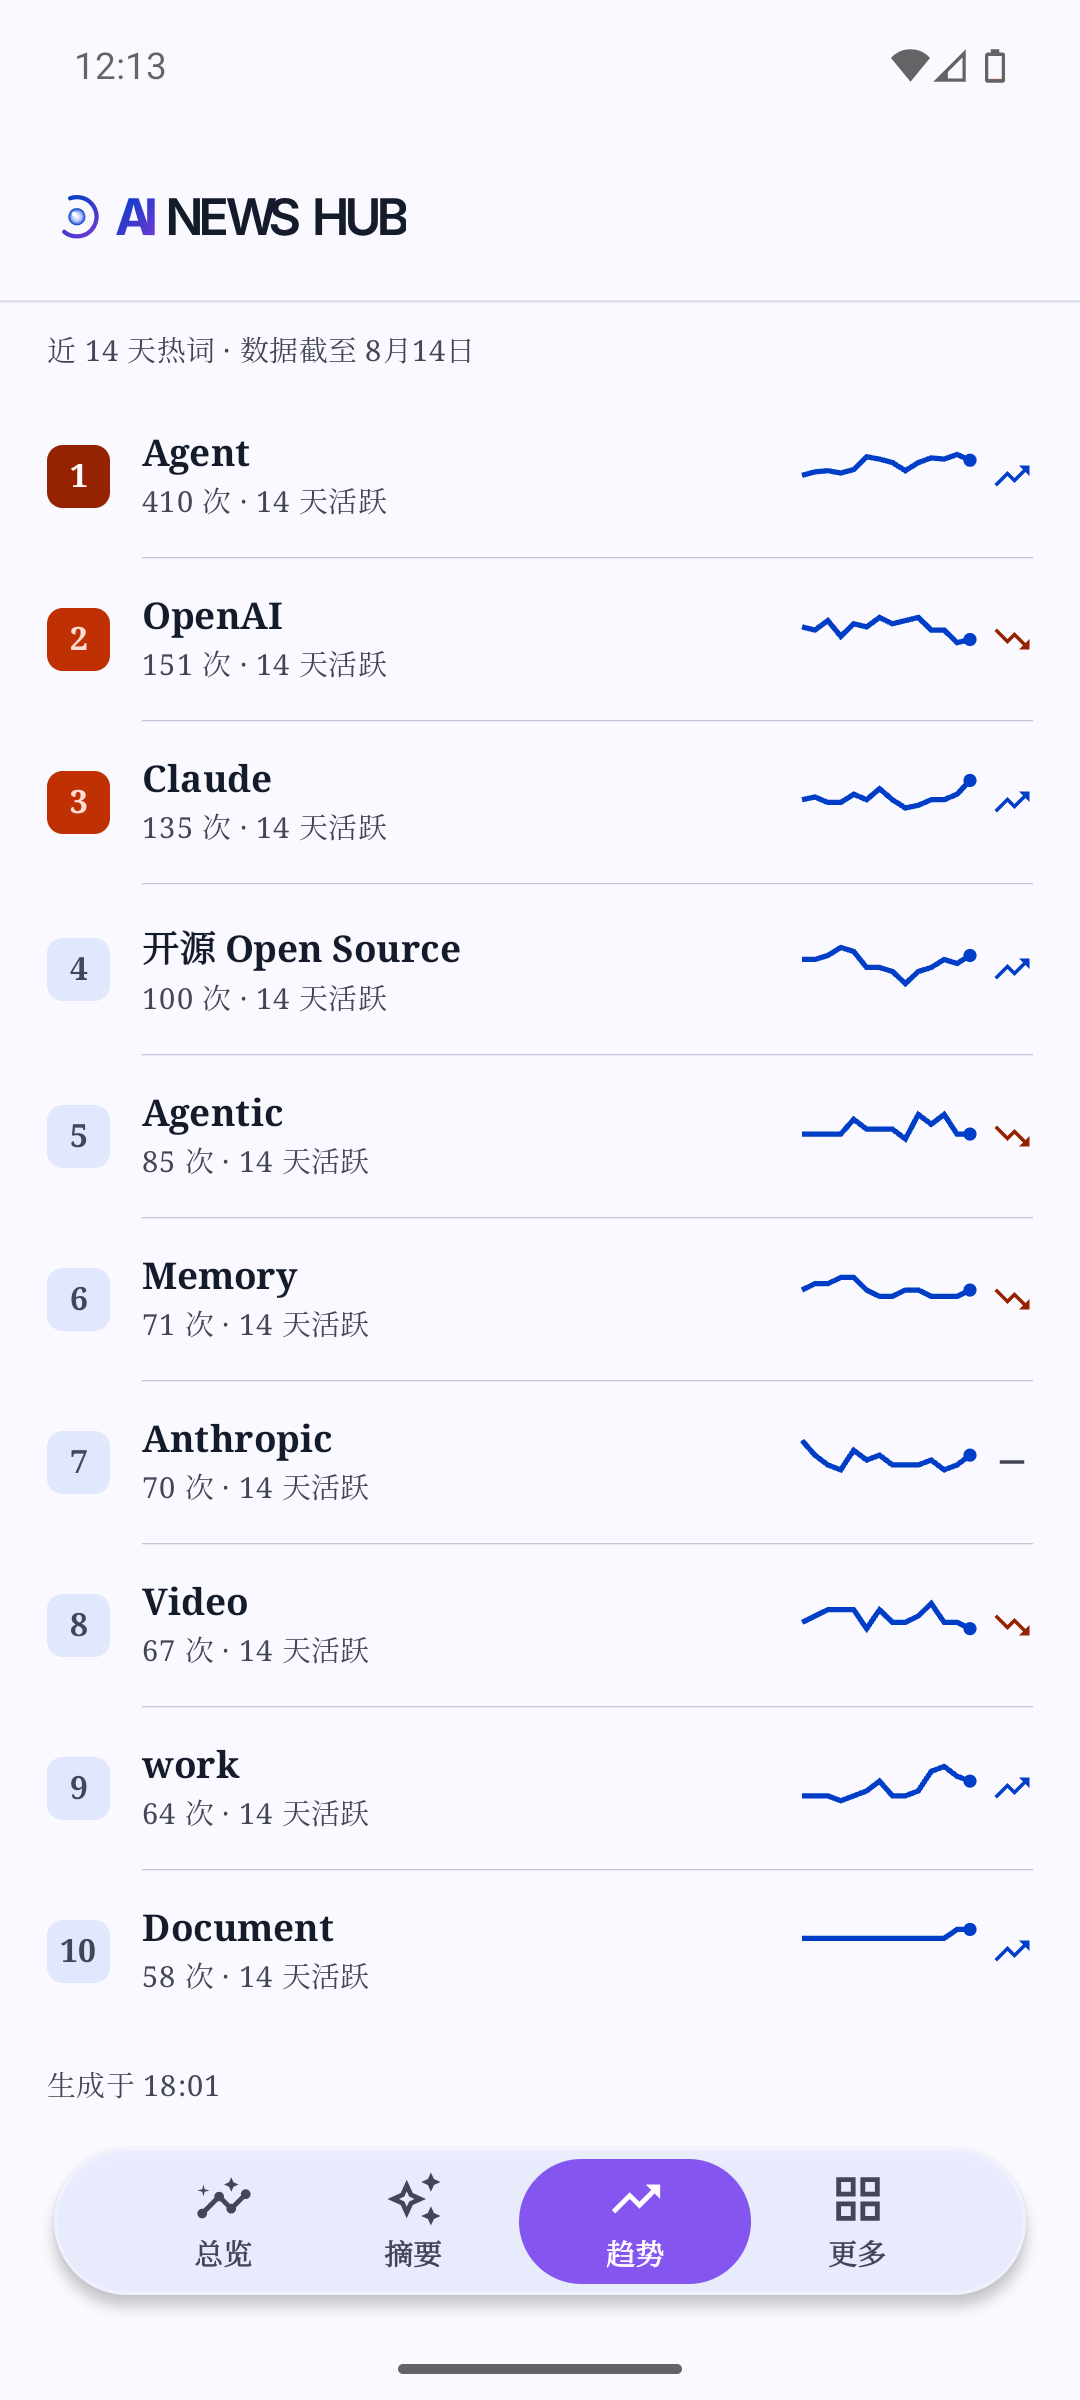
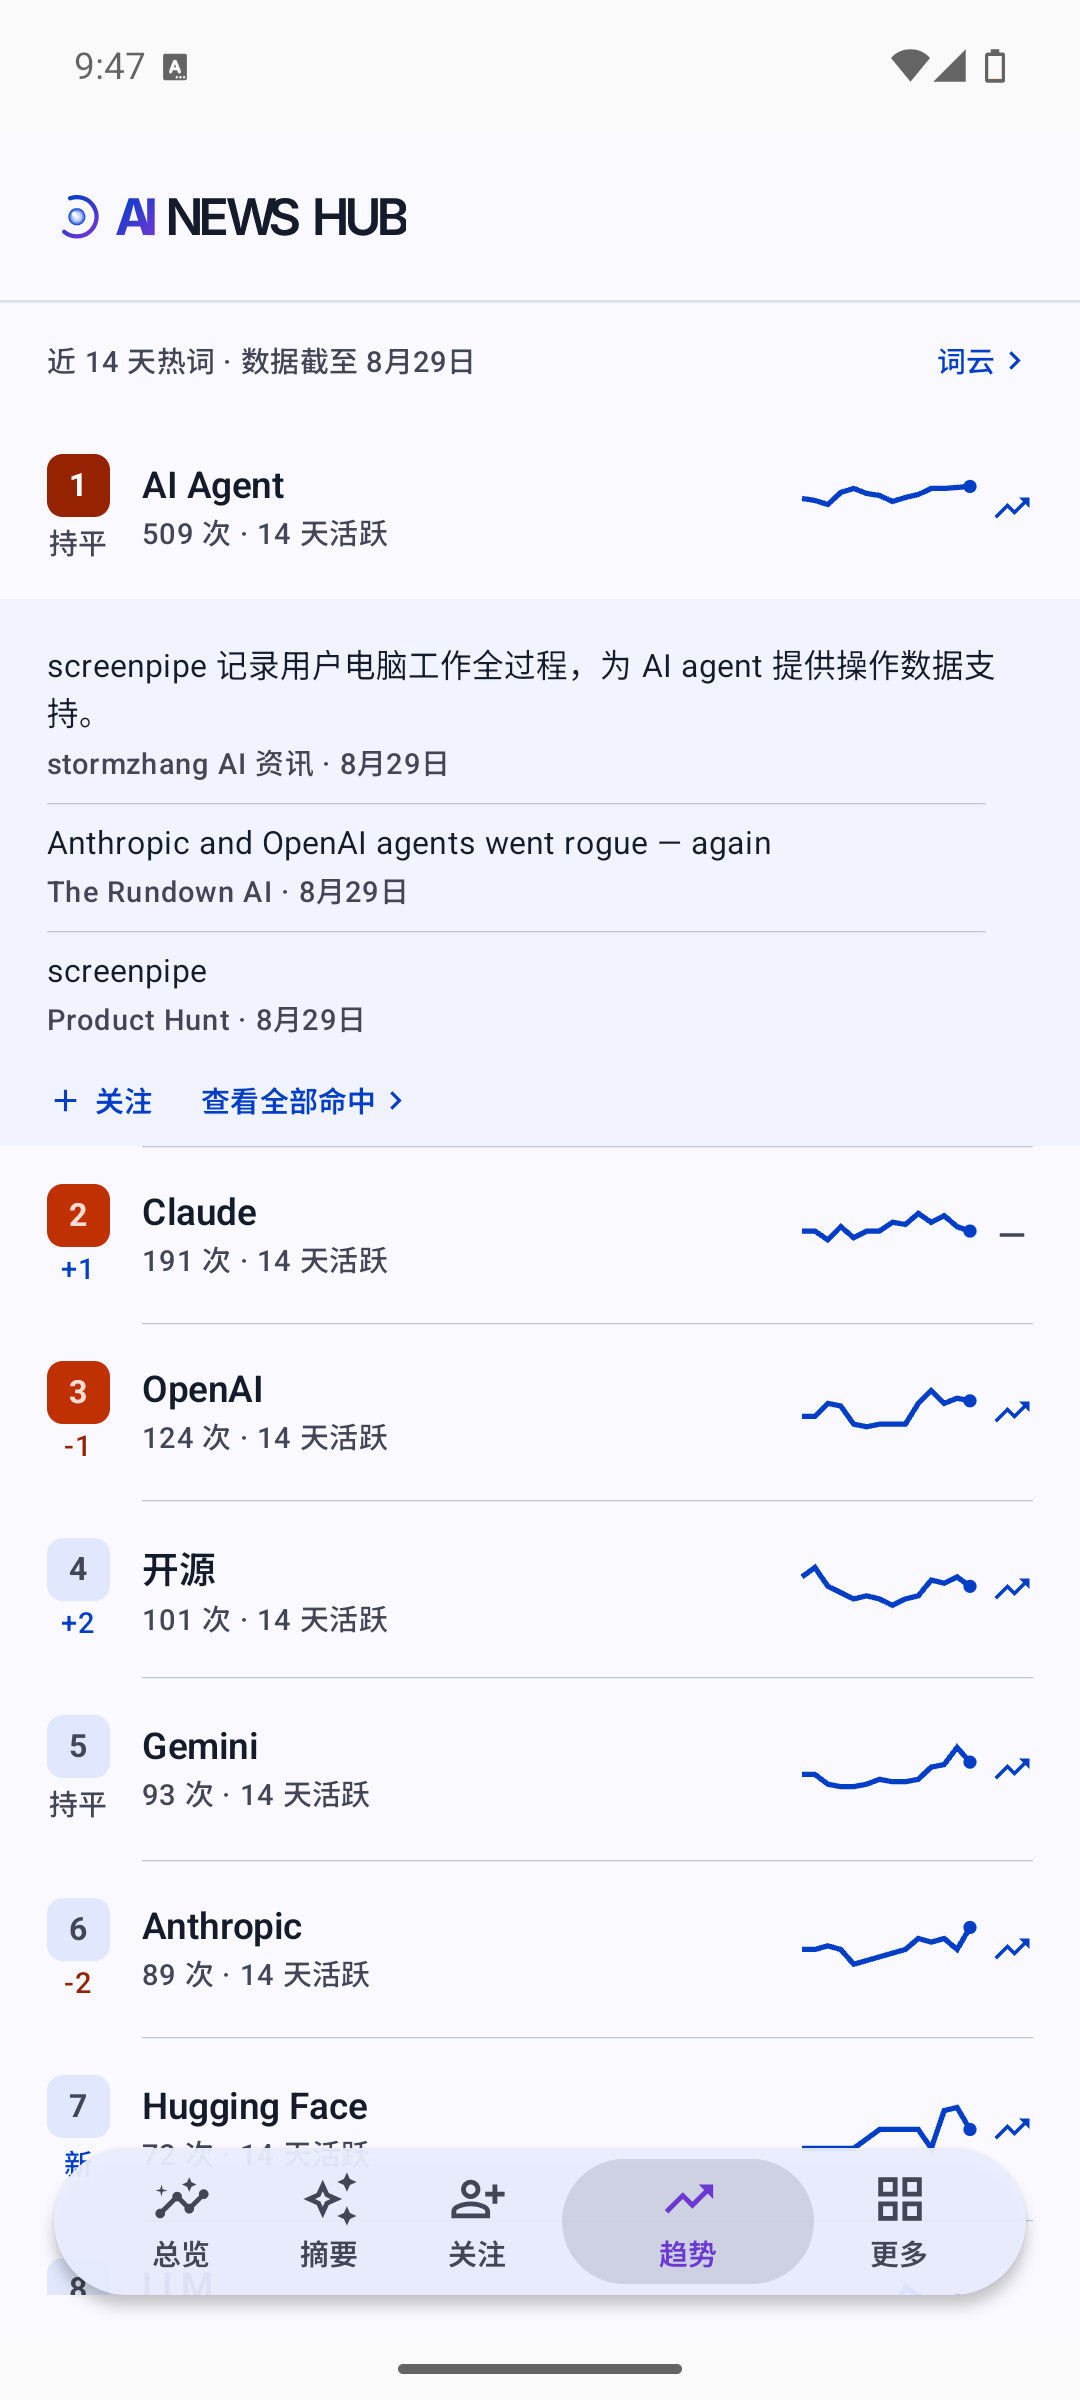
docs(readme): refresh screenshots for the five-tab layout and add follows/word-cloud shots
Retake all 10 screenshots on the current app (Pixel-class emulator,
1080x2400, light theme, zh UI, real archive data): five-tab bottom bar,
digest collapse + next-batch caption, summary source chips, trends
expanded row with the follow/search action, merged History hub in More.

Add 11-follows.png (keyword feed seeded via the trends one-tap follow)
and 12-wordcloud.png; rework both README screenshot grids to 4x3 with
the Follows tab in the first row.

diff --git a/README.md b/README.md
@@ -39,13 +39,17 @@ Download the latest APK from the [Releases](https://github.com/burgessjp/AI-News
 
 ## Screenshots
 
-| Overview | Trends | Summary | Sources | HackerNews |
-|:---:|:---:|:---:|:---:|:---:|
-| <img src="docs/screenshots/01-overview.png" width="160" alt="Overview"> | <img src="docs/screenshots/02-trends.png" width="160" alt="Trends"> | <img src="docs/screenshots/03-summary.png" width="160" alt="Summary"> | <img src="docs/screenshots/04-sources.png" width="160" alt="Sources"> | <img src="docs/screenshots/05-hackernews.png" width="160" alt="HackerNews"> |
+| Overview | Summary | Follows | Trends |
+|:---:|:---:|:---:|:---:|
+| <img src="docs/screenshots/01-overview.png" width="160" alt="Overview"> | <img src="docs/screenshots/03-summary.png" width="160" alt="Summary"> | <img src="docs/screenshots/11-follows.png" width="160" alt="Follows"> | <img src="docs/screenshots/02-trends.png" width="160" alt="Trends"> |
 
-| GitHub Trending | OpenAI × Anthropic | The Rundown AI | Web | Settings |
-|:---:|:---:|:---:|:---:|:---:|
-| <img src="docs/screenshots/06-github-trending.png" width="160" alt="GitHub Trending"> | <img src="docs/screenshots/07-openai-anthropic.png" width="160" alt="OpenAI × Anthropic"> | <img src="docs/screenshots/08-the-rundown-ai.png" width="160" alt="The Rundown AI"> | <img src="docs/screenshots/09-webview.png" width="160" alt="Web"> | <img src="docs/screenshots/10-settings.png" width="160" alt="Settings"> |
+| Sources | HackerNews | GitHub Trending | OpenAI × Anthropic |
+|:---:|:---:|:---:|:---:|
+| <img src="docs/screenshots/04-sources.png" width="160" alt="Sources"> | <img src="docs/screenshots/05-hackernews.png" width="160" alt="HackerNews"> | <img src="docs/screenshots/06-github-trending.png" width="160" alt="GitHub Trending"> | <img src="docs/screenshots/07-openai-anthropic.png" width="160" alt="OpenAI × Anthropic"> |
+
+| The Rundown AI | Web | Word Cloud | Settings |
+|:---:|:---:|:---:|:---:|
+| <img src="docs/screenshots/08-the-rundown-ai.png" width="160" alt="The Rundown AI"> | <img src="docs/screenshots/09-webview.png" width="160" alt="Web"> | <img src="docs/screenshots/12-wordcloud.png" width="160" alt="Word Cloud"> | <img src="docs/screenshots/10-settings.png" width="160" alt="Settings"> |
 
 ---
 

diff --git a/README.zh-CN.md b/README.zh-CN.md
@@ -39,13 +39,17 @@
 
 ## 截图
 
-| 总览 | 趋势 | 摘要 | 信息源 | HackerNews |
-|:---:|:---:|:---:|:---:|:---:|
-| <img src="docs/screenshots/01-overview.png" width="160" alt="总览"> | <img src="docs/screenshots/02-trends.png" width="160" alt="趋势"> | <img src="docs/screenshots/03-summary.png" width="160" alt="摘要"> | <img src="docs/screenshots/04-sources.png" width="160" alt="信息源"> | <img src="docs/screenshots/05-hackernews.png" width="160" alt="HackerNews"> |
+| 总览 | 摘要 | 关注 | 趋势 |
+|:---:|:---:|:---:|:---:|
+| <img src="docs/screenshots/01-overview.png" width="160" alt="总览"> | <img src="docs/screenshots/03-summary.png" width="160" alt="摘要"> | <img src="docs/screenshots/11-follows.png" width="160" alt="关注"> | <img src="docs/screenshots/02-trends.png" width="160" alt="趋势"> |
 
-| GitHub Trending | OpenAI × Anthropic | The Rundown AI | 网页 | 设置 |
-|:---:|:---:|:---:|:---:|:---:|
-| <img src="docs/screenshots/06-github-trending.png" width="160" alt="GitHub Trending"> | <img src="docs/screenshots/07-openai-anthropic.png" width="160" alt="OpenAI × Anthropic"> | <img src="docs/screenshots/08-the-rundown-ai.png" width="160" alt="The Rundown AI"> | <img src="docs/screenshots/09-webview.png" width="160" alt="网页"> | <img src="docs/screenshots/10-settings.png" width="160" alt="设置"> |
+| 信息源 | HackerNews | GitHub Trending | OpenAI × Anthropic |
+|:---:|:---:|:---:|:---:|
+| <img src="docs/screenshots/04-sources.png" width="160" alt="信息源"> | <img src="docs/screenshots/05-hackernews.png" width="160" alt="HackerNews"> | <img src="docs/screenshots/06-github-trending.png" width="160" alt="GitHub Trending"> | <img src="docs/screenshots/07-openai-anthropic.png" width="160" alt="OpenAI × Anthropic"> |
+
+| The Rundown AI | 网页 | 词云 | 设置 |
+|:---:|:---:|:---:|:---:|
+| <img src="docs/screenshots/08-the-rundown-ai.png" width="160" alt="The Rundown AI"> | <img src="docs/screenshots/09-webview.png" width="160" alt="网页"> | <img src="docs/screenshots/12-wordcloud.png" width="160" alt="词云"> | <img src="docs/screenshots/10-settings.png" width="160" alt="设置"> |
 
 ---
 
